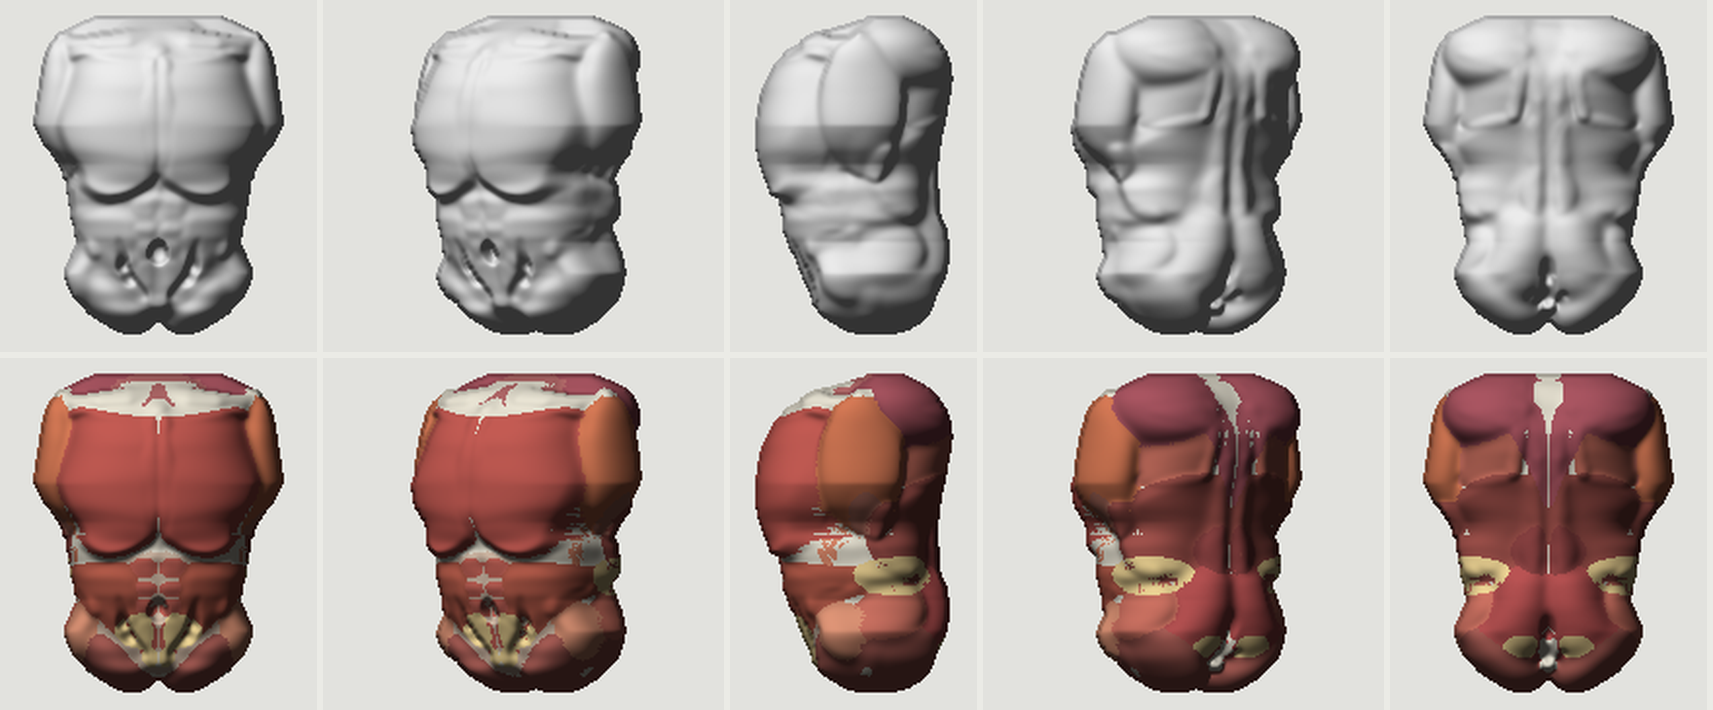
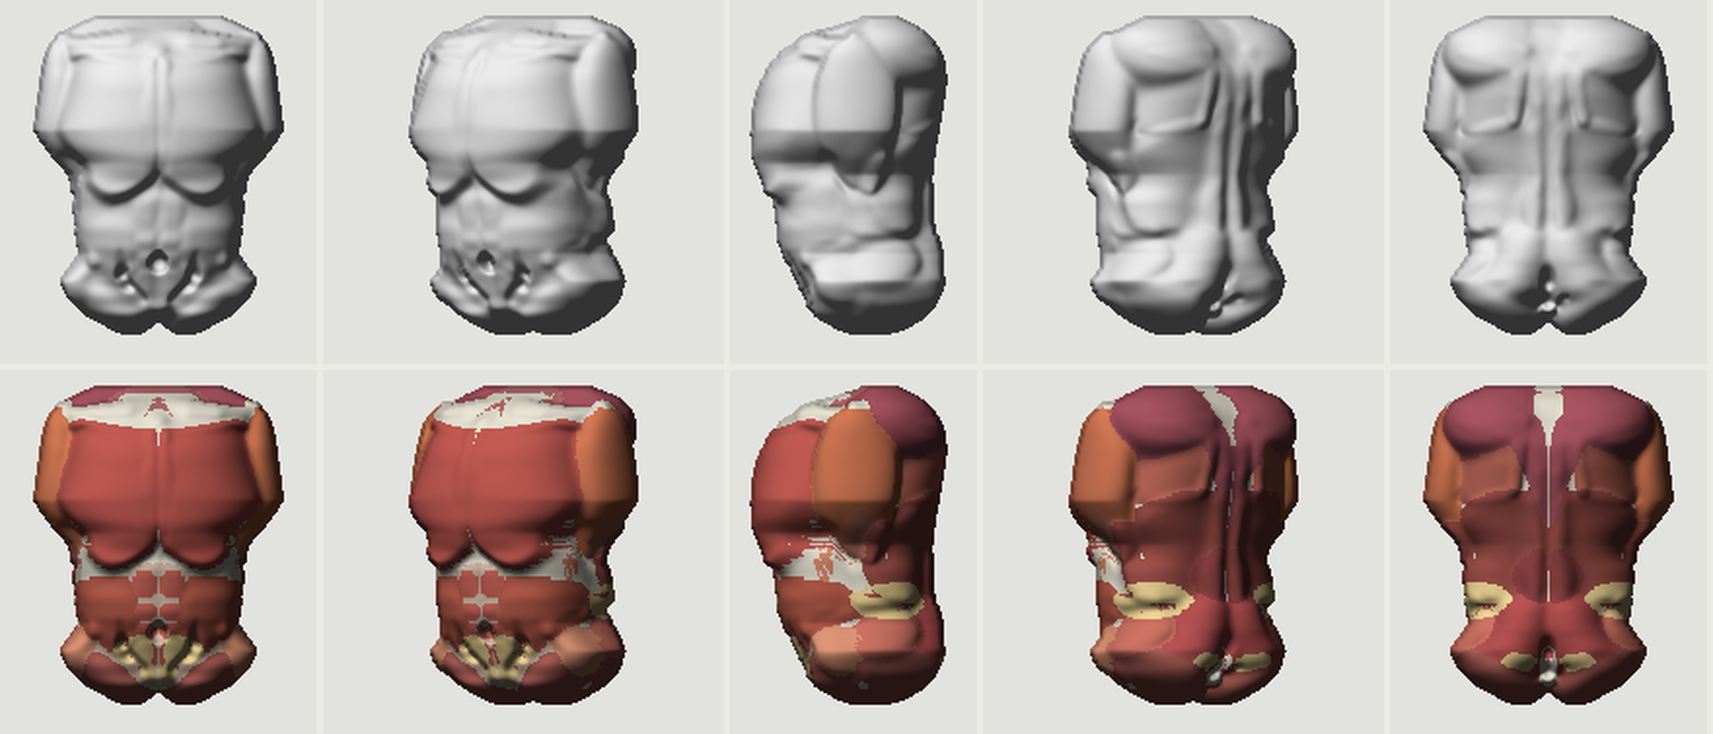
Body 3D: prototype M v2, rib cage stretched 12 px, pectorals lifted 12 px, glutes pushed back 7 px and rounded; widths re-solved after the edits

diff --git a/Art/work/transfer-proto/fable-crack/proto.py b/Art/work/transfer-proto/fable-crack/proto.py
@@ -10,6 +10,7 @@ Run: uv run --with numpy --with pillow --with scipy --with scikit-image python p
 import sys
 
 import numpy as np
+from scipy import ndimage as ndi
 
 import stack3d as s
 
@@ -40,6 +41,46 @@ def width_scale(G, d, target):
     return rows, k
 
 
+# Shape edits on top of the widths (Virginie 2026-11-17 on M: 'étire la cage thoracique, remonte les pectoraux,
+# retravaille les fesses'), all as smooth displacements of the finished stack (skin, muscles, bones move together):
+#   cage: rows of the thorax stretched down: the costal margin (334) goes to 334 + cage, the crotch (422) stays;
+#   pecs: the front of the chest (rows 250..345, x < 85) lifted by pecs px, most at the under-chest fold;
+#   glutes: the back of the buttocks pushed back by glutes px and up by a third of it, round, centred on each cheek.
+SHAPE = {"M": dict(cage=12.0, pecs=12.0, glutes=7.0)}
+
+
+def sstep(v):
+    v = np.clip(v, 0, 1)
+    return v * v * (3 - 2 * v)
+
+
+def bump(v, c, wd):
+    """1 at c, 0 at c +/- wd, smooth."""
+    return sstep(1.0 - np.abs(v - c) / wd)
+
+
+def shaped(G, Gs, fields, rows, k, zc, sh):
+    """Fields of the Male stack, scaled in width (rows, k), then edited by SHAPE: inverse map from each output voxel."""
+    X, R, Z = (np.broadcast_to(a, G.shape).astype(np.float32) for a in G.coords((slice(None),) * 3))
+    zm = np.interp(R, *zc).astype(np.float32)
+    front = sstep((Z - zm) / 12.0); back = sstep((zm - Z) / 12.0)
+    # glutes (undone first: they are the last edit)
+    g = sh["glutes"] * bump(R, 402.0, 28.0) * bump(X, 30.0, 34.0) * back
+    Z = Z + g; R = R + g / 3.0
+    # pecs: output at R shows what was lower
+    p = sh["pecs"] * bump(R, 315.0, 55.0) * sstep((85.0 - X) / 20.0) * front
+    R = R + p
+    # cage: piecewise linear rows, output -> source
+    R = np.interp(R, [0.0, 232.0, 334.0 + sh["cage"], 422.0, 1000.0], [0.0, 232.0, 334.0, 422.0, 1000.0]).astype(np.float32)
+    # widths
+    X = X / np.interp(R, rows, k).astype(np.float32)
+    co = np.stack([(R - Gs.r[0]) / Gs.h, X / Gs.h, (Z - Gs.z[0]) / Gs.h])
+    out = []
+    for a, order in fields:
+        out.append(ndi.map_coordinates(a.astype(np.float32), co, order=order, mode="nearest"))
+    return out
+
+
 def proto_board(name, h):
     """Prototype vs WDI: the Male stack (skin, fat, lean) scaled row by row in width to the prototype's ratios, drawn
     by stack3d.board next to the WDI Male (WDI | stack in WDI style | outlines)."""
@@ -48,12 +89,17 @@ def proto_board(name, h):
     G, T = K["G"], K["T"]
     rows, k = width_scale(G, K["d"], PROTO[name])
     print(f"{name}: width scale at {rows}: {[round(x, 3) for x in k]}")
-    av.ROWS_SAVE = av.ROWS
-    av.ROWS = rows
-    one = np.ones(len(rows))
-    TM = T
-    Go, d, o = av.vary(G, TM, K["d"], K["owner"], np.array(k), one)
-    av.ROWS = av.ROWS_SAVE
+    Go = s.Grid(G.h, x1=float(G.x[-1]) * max(max(k), 1.0) + 4.0, r0=float(G.r[0]), r1=float(G.r[-1]) + 8.0,
+                z0=float(G.z[0]) - 8.0, z1=float(G.z[-1]))
+    tgt = PROTO[name]
+    for it in range(4):                                        # the shape edits move the rows: re-solve the widths on the result
+        d, o = shaped(Go, G, [(K["d"], 1), (K["owner"], 0)], rows, k, (T.rows, T.zc), SHAPE[name])
+        xm = np.nan_to_num(np.nanmax(s.last_cross(d, 1, Go.x), axis=1))
+        hw = lambda r: float(np.interp(r, Go.r, xm))
+        sh = hw(WROWS["shoulders"])
+        k = [kk * tgt[n] * sh / hw(WROWS[n]) for kk, n in zip(k, WROWS)]
+    d, o = shaped(Go, G, [(K["d"], 1), (K["owner"], 0)], rows, k, (T.rows, T.zc), SHAPE[name])
+    o = np.round(o).astype(np.int16)
     rep, path = s.board(K["S"], Go, d, T, f"proto{name}", o, extra=f"prototype {name}")
     for f, r in rep.items():
         print(f"{f:6s} sil p95 {r['p95']:.2f} | lum {r['mae']:.4f}")
